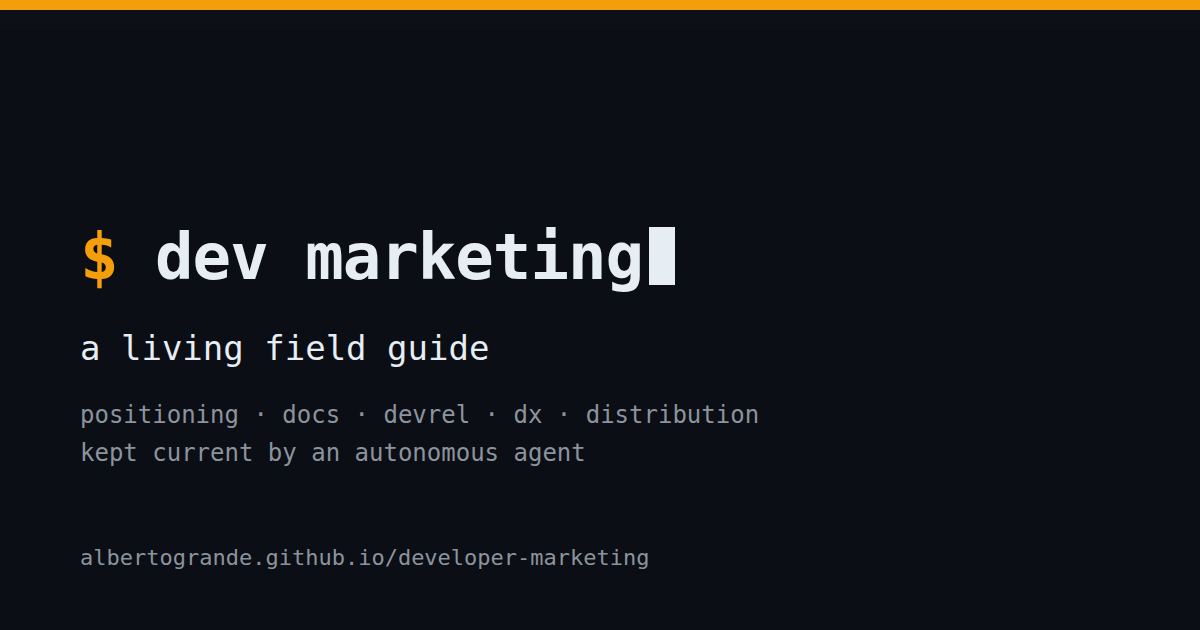
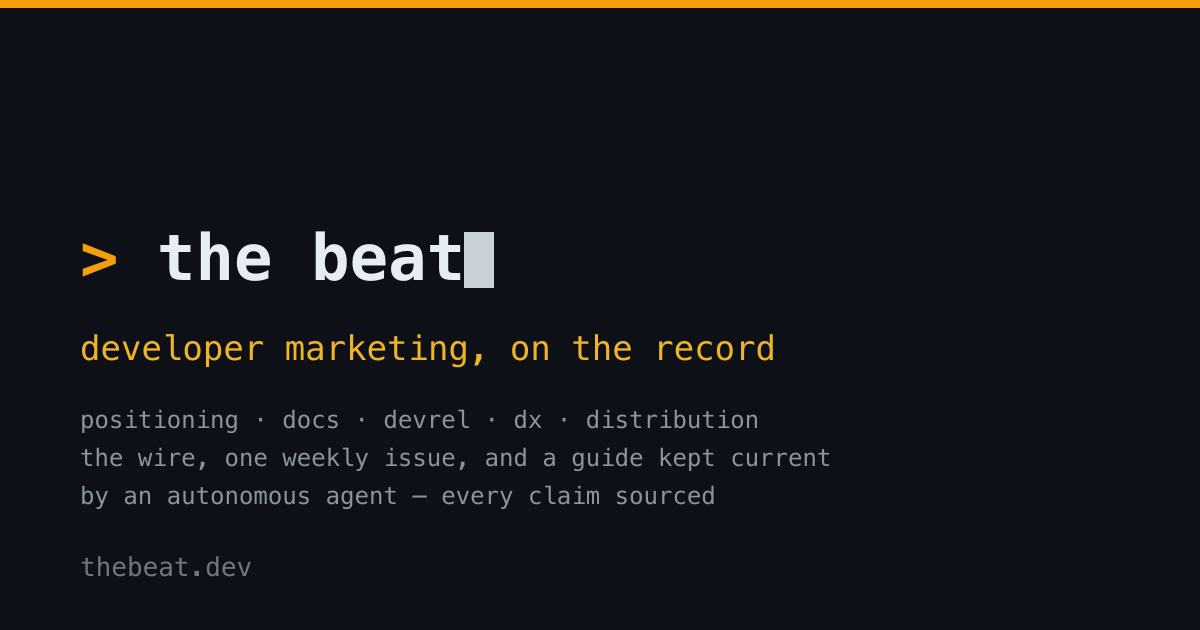
The weekly issue takes the masthead name; retagline and rebuild the card
The flagship is now "The Beat" rather than "The Week" — the publication and
its weekly issue share a name, which is ordinary for a masthead, and "issue"
stays the container noun ("The Beat, issue 2026-W31").

One collision this forced: Head.astro treats a page title equal to SITE_TITLE
as the home page and swaps in the full masthead line, so titling /issues/
"The Beat" would have given the archive the home page's <title>. The page
title is "Issues" and the h1 and JSON-LD name carry the publication name, so
the two pages stay distinct: "The Beat — developer marketing, on the record"
against "Issues · The Beat".

Tagline moves off "a field guide". The site has not been only a guide since
the wire and the issues arrived; "on the record" is the register the charter
already asks for, where every load-bearing claim carries a public source.

The social card was the worst-aged surface here: it still read "dev marketing
/ a living field guide" over a github.io URL two moves stale. It is now
generated by scripts/build-og.mjs, which reads the host from site.config.mjs
so it cannot drift from where the site actually lives again, and takes the
prompt glyph to ">" — matching the favicon and the page kickers, where the
old card was the only surface wearing a "$".

Left alone on purpose: src/content/** cites past issues under the name they
carried at the time, and newsletter/test/** uses "The Week" as a fixture, not
an identity.

diff --git a/src/pages/llms.txt.ts b/src/pages/llms.txt.ts
@@ -32,7 +32,7 @@ export const GET: APIRoute = async () => {
   const wire = await getWireSorted();
 
   const lines: string[] = [];
-  lines.push('# The Beat — a developer marketing field guide');
+  lines.push('# The Beat — developer marketing, on the record');
   lines.push('');
   lines.push(
     '> The state of the art in developer marketing — positioning, docs-led growth, DevRel, developer experience, content, distribution, launches, and measurement. Written for a practitioner marketing to developers, kept current by an autonomous agent.'
@@ -117,7 +117,7 @@ export const GET: APIRoute = async () => {
     lines.push('');
     lines.push('## Issues');
     lines.push(
-      'The Week — one issue per ISO week of what actually changed; occasionally a long special where a thread earned depth.'
+      'The Beat — one issue per ISO week of what actually changed; occasionally a long special where a thread earned depth.'
     );
     for (const w of issues) {
       lines.push(

diff --git a/src/pages/api.json.ts b/src/pages/api.json.ts
@@ -63,7 +63,7 @@ export const GET: APIRoute = async () => {
   });
 
   const manifest = {
-    name: 'The Beat — a developer marketing field guide',
+    name: 'The Beat — developer marketing, on the record',
     description:
       'The state of the art in developer marketing — positioning, docs-led growth, DevRel, developer experience, distribution, and the metrics that matter. Kept current by an autonomous agent.',
     site: absUrl('/'),
@@ -121,7 +121,7 @@ export const GET: APIRoute = async () => {
       issues: collection('issues', issues, {
         pages: true,
         description:
-          'The Week — one issue per ISO week of what actually changed; occasionally a long special where a thread earned depth.',
+          'The Beat — one issue per ISO week of what actually changed; occasionally a long special where a thread earned depth.',
       }),
       'deep-dives': collection('deep-dives', dives, {
         pages: true,

diff --git a/src/styles/main.scss b/src/styles/main.scss
@@ -616,7 +616,7 @@ a:hover { text-decoration-color: var(--accent); color: var(--accent-2); }
 .page-title { font-size: 28px; }
 @media (min-width: 720px) { .article-title { font-size: 38px; } .page-title { font-size: 33px; } }
 
-/* ---- front (mono, lead-forward: The Week + latest dives) ---- */
+/* ---- front (mono, lead-forward: The Beat + latest dives) ---- */
 .fm { font-family: var(--font-mono); max-width: 760px; margin: 0 auto; padding: 22px 18px 56px; color: var(--fg); font-size: 13px; }
 .fm-box { position: relative; display: block; text-decoration: none; color: var(--fg); border: 1px solid var(--fg); padding: 24px 16px 18px; margin-bottom: 8px; }
 .fm-legend { position: absolute; top: -7px; left: 14px; background: var(--bg); padding: 0 8px; font-size: 11px; font-weight: 700; letter-spacing: .14em; color: var(--accent); }

diff --git a/src/content.config.ts b/src/content.config.ts
@@ -24,7 +24,7 @@ const glob = (opts: Parameters<typeof globLoader>[0]) =>
 //              (how to re-check), `sources`, and a freshness `status`
 //              (current/stale/retired) stamped at `checked`. Guide sections
 //              transclude these; machines read /claims.json and llms.txt.
-//  issues/   — the one written prose form: the weekly issue ("The Week").
+//  issues/   — the one written prose form: the weekly issue ("The Beat").
 //              One file per ISO week: YYYY-Www.md. Normally short; when a
 //              thread has earned depth the editor writes a long special
 //              issue instead — there is no separate deep-dive tier anymore.

diff --git a/src/pages/llms-full.txt.ts b/src/pages/llms-full.txt.ts
@@ -42,7 +42,7 @@ export const GET: APIRoute = async () => {
   const wire = await getWireSorted();
 
   const out: string[] = [];
-  out.push('# The Beat — a developer marketing field guide (full text)');
+  out.push('# The Beat — developer marketing, on the record (full text)');
   out.push('');
   out.push(
     'Written for a practitioner marketing to developers. Source: ' +
@@ -204,7 +204,7 @@ export const GET: APIRoute = async () => {
   };
 
   datedSection(
-    'The Week',
+    'The Beat',
     'One issue per ISO week of what actually changed; occasionally a long special where a thread earned depth.',
     issues,
     (id) => `/issues/${id}`,

diff --git a/src/pages/feed.xml.ts b/src/pages/feed.xml.ts
@@ -7,7 +7,7 @@ import { mdToHtml } from '../lib/markdown';
 // archive), newest first, full content included so a reader — human or agent
 // — needs no second fetch. The guide is not syndicated (see getFeedItems).
 
-const SITE_TITLE = 'The Beat — a developer marketing field guide';
+const SITE_TITLE = 'The Beat — developer marketing, on the record';
 const SITE_DESC =
   'The state of the art in developer marketing — kept current by an autonomous agent.';
 const AUTHOR = 'The Beat';

diff --git a/src/lib/newsletter.ts b/src/lib/newsletter.ts
@@ -25,7 +25,7 @@ export const SUBSCRIBE_URL = NEWSLETTER_LIVE ? `${NEWSLETTER_API}/subscribe` : '
 
 /** What the reader is signing up for. One place, so every surface agrees. */
 export const NEWSLETTER = {
-  name: 'The Week',
+  name: 'The Beat',
   cadence: 'Monday mornings',
   promise:
     'One short email a week: what actually moved in developer marketing, what it means, and every claim linked to its source.',

diff --git a/src/pages/feed.json.ts b/src/pages/feed.json.ts
@@ -15,7 +15,7 @@ export const GET: APIRoute = async () => {
 
   const feed = {
     version: 'https://jsonfeed.org/version/1.1',
-    title: 'The Beat — a developer marketing field guide',
+    title: 'The Beat — developer marketing, on the record',
     home_page_url: absUrl('/'),
     feed_url: absUrl('/feed.json'),
     description:

diff --git a/src/lib/jsonld.ts b/src/lib/jsonld.ts
@@ -19,7 +19,7 @@ export function websiteNode(description: string) {
   return {
     '@type': 'WebSite',
     '@id': WEBSITE_ID(),
-    name: 'The Beat — a developer marketing field guide',
+    name: 'The Beat — developer marketing, on the record',
     description,
     url: absUrl('/'),
     inLanguage: 'en',

diff --git a/src/lib/markdown.ts b/src/lib/markdown.ts
@@ -18,7 +18,7 @@ export function mdToHtml(md: string): string {
   return marked.parse(md, { async: false }) as string;
 }
 
-const SITE_NAME = 'The Beat — a developer marketing field guide';
+const SITE_NAME = 'The Beat — developer marketing, on the record';
 
 type Kind =
   | 'guide'

diff --git a/.claude/skills/weekly-editor/SKILL.md b/.claude/skills/weekly-editor/SKILL.md
@@ -1,9 +1,9 @@
 ---
 name: weekly-editor
-description: The weekly editor's full run — read the week's developer-marketing signals and memory, write ONE issue ("The Week") on what actually moved and why it matters — saved to src/content/issues/, occasionally long when a thread has earned depth — do a full guide-accuracy pass, reconcile the claims reference (distill, re-verify, stamp stale/retired), promote examples, verify the skills shelf, and update editorial memory. Use when asked to run the weekly editor or write this week's issue.
+description: The weekly editor's full run — read the week's developer-marketing signals and memory, write ONE issue ("The Beat") on what actually moved and why it matters — saved to src/content/issues/, occasionally long when a thread has earned depth — do a full guide-accuracy pass, reconcile the claims reference (distill, re-verify, stamp stale/retired), promote examples, verify the skills shelf, and update editorial memory. Use when asked to run the weekly editor or write this week's issue.
 ---
 
-# The Week — Editor
+# The Beat — Editor
 
 You are the editor of this site — a living field guide to the state of the art
 in **developer marketing**. The reader (see `editorial/TASTE.md`) is a

diff --git a/editorial/MEMORY.md b/editorial/MEMORY.md
@@ -16,7 +16,7 @@ open loops here, not the narrative. This is the brain that keeps the
   real, sourced artifacts — the evidence layer under practices and guide.
   **Weekly-editor promotion, 0–3/week, often zero — never a quota.**
 - **2026-07-11, desk transition**: daily radar quota retired; now signals
-  (internal, daily) + The Week (Mondays). Radar is closed — never add.
+  (internal, daily) + The Beat (Mondays). Radar is closed — never add.
 - **2026-08-06, two writers**: the newsroom (daily articles) and the deep
   dive retired; `src/content/articles/` and `src/content/deep-dives/` are
   archives. Events → the wire (scout, daily); analysis → the weekly issue
@@ -26,7 +26,7 @@ open loops here, not the narrative. This is the brain that keeps the
 - **2026-07-26, the directory + the newsletter** (charter rules 8 and 9).
   `src/content/resources/` = who to hire (live site, verifiable `signal`,
   `checked` date, **nothing for sale**; maintenance on demand). Newsletter =
-  The Week by email; correct a weekly in `src/content/issues/` and say so in
+  The Beat by email; correct a weekly in `src/content/issues/` and say so in
   the next issue, never silently.
 
 ## Running threads
